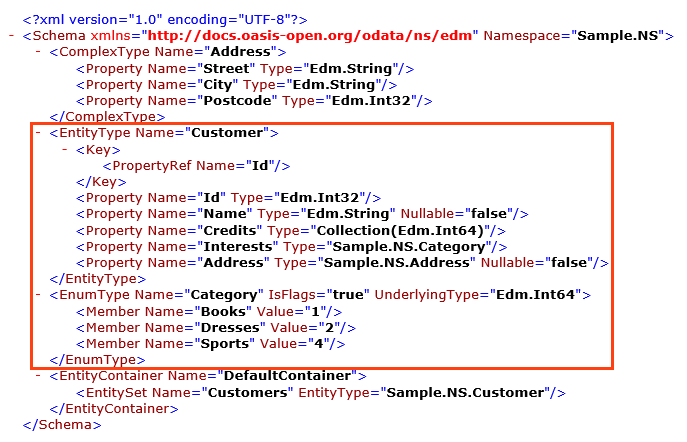
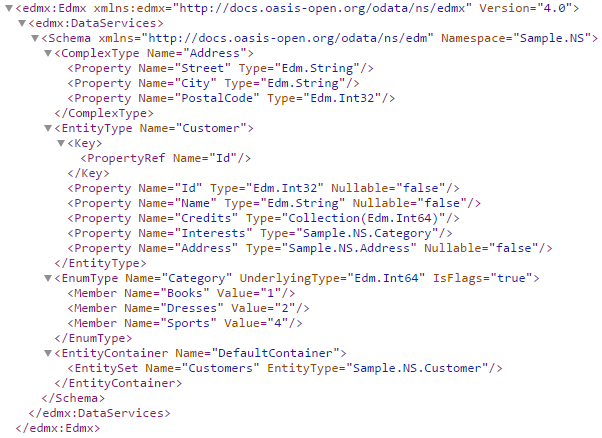
Update existing articles to reflect #632

Changed region(s): [[0.0, 0.0, 0.9867, 1.0]]

diff --git a/v7/_posts/core libraries/2015-04-02-02-02-read-write-model.md b/v7/_posts/core libraries/2015-04-02-02-02-read-write-model.md
@@ -23,70 +23,43 @@ namespace EdmLibSample
             using (var writer = XmlWriter.Create(fileName))
             {
                 IEnumerable<EdmError> errors;
-                model.TryWriteCsdl(writer, out errors);
+                CsdlWriter.TryWriteCsdl(model, writer, CsdlTarget.OData, out errors);
             }
         }
     }
 }
 {% endhighlight %}
 
-The `CsdlWriter.TryWriteCsdl()` method is defined as an extension method to `IEdmModel`:
+The `CsdlWriter.TryWriteCsdl()` method is prototyped as:
 
 {% highlight csharp %}
 namespace Microsoft.OData.Edm.Csdl
 {
-    public static class CsdlWriter
+    public class CsdlWriter
     {
         ...
-        public static bool TryWriteCsdl(this IEdmModel model, XmlWriter writer, out IEnumerable<EdmError> errors);
+        public static bool TryWriteCsdl(IEdmModel model, XmlWriter writer, CsdlTarget target, out IEnumerable<EdmError> errors);
         ...
     }
 }
 {% endhighlight %}
 
-The **second parameter** `writer` requires an `XmlWriter` which can be created through the overloaded `XmlWriter.Create` methods. Remember to either apply a `using` clause to an `XmlWriter` instance or explicitly call `XmlWriter.Flush()` (or `XmlWriter.Close()`) to **flush the buffer to its underlying stream**. The **third parameter** `errors` is used to pass out the errors found when writing the model. If the method **returns** `true` (indicating write success), the `errors` should be an empty `Enumerable`; otherwise it contains all the model errors.
-
-The other version of the `CsdlWriter.TryWriteCsdl()` method is:
-
-{% highlight csharp %}
-namespace Microsoft.OData.Edm.Csdl
-{
-    public static class CsdlWriter
-    {
-        ...
-        public static bool TryWriteCsdl(this IEdmModel model, Func<string, XmlWriter> writerProvider, out IEnumerable<EdmError> errors);
-        ...
-    }
-}
-{% endhighlight %}
-
-This overload is called when the model to write contains **referenced models**. The referenced models need to be written into separate files. So the **second parameter** `writerProvider` takes a callback to create a different `XmlWriter` for each referenced model where the `string` parameter is the schema namespace of that model. A simple `writerProvider` would be:
-
-{% highlight csharp %}
-public XmlWriter CreateXmlWriter(string namespace)
-{
-    return XmlWriter.Create(string.Format("{0}.xml", namespace));
-}
-{% endhighlight %}
+The **second parameter** `writer` requires an `XmlWriter` which can be created through the overloaded `XmlWriter.Create` methods. Remember to either apply a `using` clause to an `XmlWriter` instance or explicitly call `XmlWriter.Flush()` (or `XmlWriter.Close()`) to **flush the buffer to its underlying stream**. The **third parameter** `target` specifies the target implementation of the CSDL being generated, which can be either `CsdlTarget.EntityFramework` or `CsdlTarget.OData`. The **4th parameter** `errors` is used to pass out the errors found when writing the model. If the method **returns** `true` (indicating write success), the `errors` should be an empty `Enumerable`; otherwise it contains all the model errors.
 
 ### Using the CsdlReader APIs
-The `CsdlReader` APIs are defined as follows:
+The simplest `CsdlReader` API is prototyped as:
 
 {% highlight csharp %}
 namespace Microsoft.OData.Edm.Csdl
 {
-    public static class CsdlReader
+    public class CsdlReader
     {
-        public static bool TryParse(IEnumerable<XmlReader> readers, out IEdmModel model, out IEnumerable<EdmError> errors);
-        public static bool TryParse(IEnumerable<XmlReader> readers, IEdmModel reference, out IEdmModel model, out IEnumerable<EdmError> errors);
-        public static bool TryParse(IEnumerable<XmlReader> readers, IEnumerable<IEdmModel> references, out IEdmModel model, out IEnumerable<EdmError> errors);
+        public static bool TryParse(XmlReader reader, out IEdmModel model, out IEnumerable<EdmError> errors);
     }
 }
 {% endhighlight %}
 
-The **first overload** is mostly used. The **second and third overloads** are similar to the first one except that they also accept one or more referenced models.
-
-The **first parameter** `readers` takes a set of `XmlReader` each of which reads a CSDL document. The **second paramter** `model` passes out the parsed model. The **third parameter** `errors` passes out the errors when parsing the CSDL document. If the **return value** of this method is `true` (indicating parse success), the `errors` should be an empty otherwise it will contain all the model errors.
+The **first parameter** `reader` takes an `XmlReader` that reads a CSDL document. The **second paramter** `model` passes out the parsed model. The **third parameter** `errors` passes out the errors when parsing the CSDL document. If the **return value** of this method is `true` (indicating parse success), the `errors` should be an empty otherwise it will contain all the model errors.
 
 ### Roundtrip the Model
 In the **Program.cs** file, insert the following code to the `Program` class:
@@ -112,7 +85,7 @@ namespace EdmLibSample
             {
                 IEdmModel model;
                 IEnumerable<EdmError> errors;
-                if (CsdlReader.TryParse(new[] { reader }, out model, out errors))
+                if (CsdlReader.TryParse(reader, out model, out errors))
                 {
                     return model;
                 }

diff --git a/v7/_posts/core libraries/2015-04-01-02-01-build-basic-model.md b/v7/_posts/core libraries/2015-04-01-02-01-build-basic-model.md
@@ -107,9 +107,9 @@ namespace EdmLibSample
         public SampleModelBuilder BuildCategoryType()
         {
             _categoryType = new EdmEnumType("Sample.NS", "Category", EdmPrimitiveTypeKind.Int64, isFlags: true);
-            _categoryType.AddMember("Books", new EdmIntegerConstant(1L));
-            _categoryType.AddMember("Dresses", new EdmIntegerConstant(2L));
-            _categoryType.AddMember("Sports", new EdmIntegerConstant(4L));
+            _categoryType.AddMember("Books", new EdmEnumMemberValue(1L));
+            _categoryType.AddMember("Dresses", new EdmEnumMemberValue(2L));
+            _categoryType.AddMember("Sports", new EdmEnumMemberValue(4L));
             _model.AddElement(_categoryType);
             return this;
         }
@@ -256,7 +256,7 @@ namespace EdmLibSample
             using (var writer = XmlWriter.Create(fileName))
             {
                 IEnumerable<EdmError> errors;
-                model.TryWriteCsdl(writer, out errors);
+                CsdlWriter.TryWriteCsdl(model, writer, CsdlTarget.OData, out errors);
             }
         }
     }

diff --git a/v6/_posts/release notes/2016-08-04-ODL-7.0.0.md b/v6/_posts/release notes/2016-08-04-ODL-7.0.0.md
@@ -217,6 +217,7 @@ Writer throws more accurate and descriptive exceptions.
 The original naming is confusing. According to the [CSDL spec](http://docs.oasis-open.org/odata/odata/v4.0/errata02/os/complete/part3-csdl/odata-v4.0-errata02-os-part3-csdl-complete.html#_Toc406397921):
 
 > An XML document using these namespaces and having an edmx:Edmx root element will be called a CSDL document.
+
 So, Edmx is only part of a valid CSDL document. In previous version, `CsdlReader` is actually unable to read a CSDL document. It's only able to read the Schema part of it. `EdmxReader`, on the other hand, is able to read a whole CSDL document. To clear up the concepts, the following renaming has been done:
 
 1. `CsdlReader/Writer` to `SchemaReader/Writer`;

diff --git a/v7/_posts/release notes/2016-08-04-ODL-7.0.0.md b/v7/_posts/release notes/2016-08-04-ODL-7.0.0.md
@@ -217,6 +217,7 @@ Writer throws more accurate and descriptive exceptions.
 The original naming is confusing. According to the [CSDL spec](http://docs.oasis-open.org/odata/odata/v4.0/errata02/os/complete/part3-csdl/odata-v4.0-errata02-os-part3-csdl-complete.html#_Toc406397921):
 
 > An XML document using these namespaces and having an edmx:Edmx root element will be called a CSDL document.
+
 So, Edmx is only part of a valid CSDL document. In previous version, `CsdlReader` is actually unable to read a CSDL document. It's only able to read the Schema part of it. `EdmxReader`, on the other hand, is able to read a whole CSDL document. To clear up the concepts, the following renaming has been done:
 
 1. `CsdlReader/Writer` to `SchemaReader/Writer`;

diff --git a/v7/_posts/core libraries/2015-04-29-01-03-use-uri-parser.md b/v7/_posts/core libraries/2015-04-29-01-03-use-uri-parser.md
@@ -42,7 +42,7 @@ In the following demo we will use the model from OData V4 demo service , and cre
 
 {% highlight csharp %}
 Uri serviceRoot = new Uri("http://services.odata.org/V4/OData/OData.svc");
-IEdmModel model = EdmxReader.Parse(XmlReader.Create(serviceRoot + "/$metadata"));
+IEdmModel model = CsdlReader.Parse(XmlReader.Create(serviceRoot + "/$metadata"));
 Uri fullUri = new Uri("http://services.odata.org/V4/OData/OData.svc/Products");
 ODataUriParser parser = new ODataUriParser(model, serviceRoot, fullUri);
 {% endhighlight %}

diff --git a/v7/_posts/core libraries/2015-06-03-02-09-model-references.md b/v7/_posts/core libraries/2015-06-03-02-09-model-references.md
@@ -116,7 +116,7 @@ const string edmx2 =
 
 IEdmModel model;
 IEnumerable<EdmError> errors;
-if (!EdmxReader.TryParse(XmlReader.Create(new StringReader(mainEdmx)), (uri) =>
+if (!CsdlReader.TryParse(XmlReader.Create(new StringReader(mainEdmx)), (uri) =>
 {
     if (string.Equals(uri.AbsoluteUri, "http://model1/"))
     {
